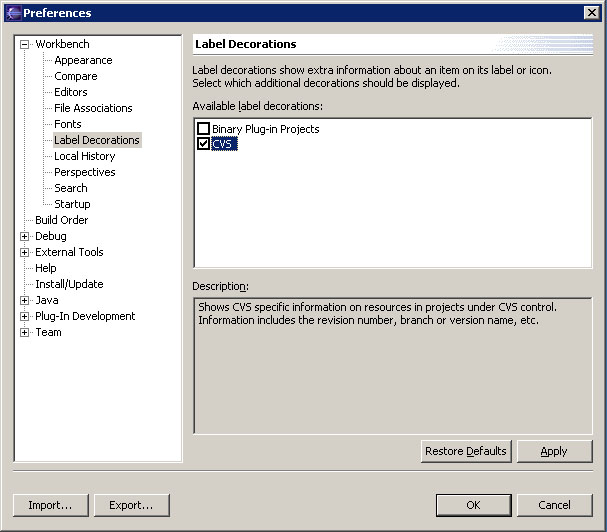
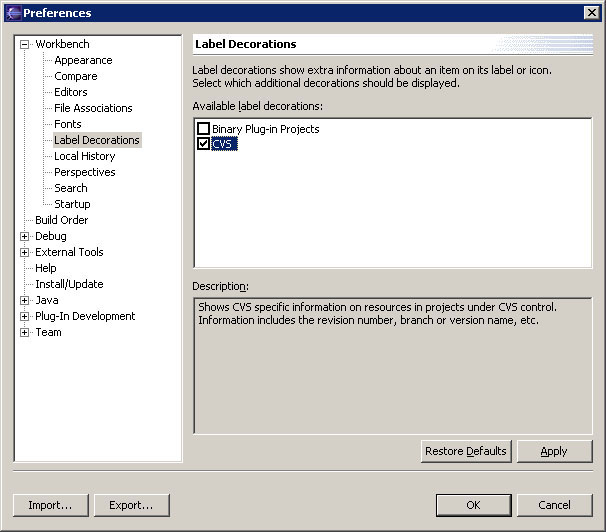
Screenshot update

diff --git a/bundles/org.eclipse.platform.doc.user/gettingStarted/qs-70_replace.htm b/bundles/org.eclipse.platform.doc.user/gettingStarted/qs-70_replace.htm
@@ -29,7 +29,7 @@ resource from the repository. To rollback to an earlier revision:</p>
   </li>
   <li>Open the preferences (Window &gt; Preferences) and turn on the CVS label 
   decorations (on page Workbench &gt; Label Decorations and ensure CVS is checked).
-<p><img align="texttop" border="0" src="../images/Image84_decorator_preference.jpg" alt="Decorator Preference" width="605" height="529"></p>
+<p><img align="texttop" border="0" src="../images/Image84_decorator_preference.jpg" alt="Decorator Preference" width="606" height="532"></p>
       <p>Observe that the Navigator updates to show the CVS state of a resource. 
         Notice that the modified file is preceded by &quot;&gt; (see #1) indicating 
         that we have changed file1.txt (by replacing it with the earlier version).&nbsp;</p>

diff --git a/bundles/org.eclipse.platform.doc.user/gettingStarted/qs-64c_catch_mod.htm b/bundles/org.eclipse.platform.doc.user/gettingStarted/qs-64c_catch_mod.htm
@@ -44,7 +44,7 @@ Making our own changes</h3>
       the CVS label decorations (on page Workbench &gt; Label Decorations and 
       ensure CVS is checked).</P>
 <blockquote>
-  <P CLASS="Para"><img align="texttop" border="0" src="../images/Image84_decorator_preference.jpg" alt="Navigator View" width="605" height="529" ></P>
+  <P CLASS="Para"><img align="texttop" border="0" src="../images/Image84_decorator_preference.jpg" alt="Navigator View" width="606" height="532" ></P>
 </blockquote>
       <P CLASS="Para">Observe that the Navigator updates to show the CVS state 
       of a resource. Notice that the two files which Fred has changed are 

diff --git a/bundles/org.eclipse.platform.doc.user/gettingStarted/qs-64b_fredmod.htm b/bundles/org.eclipse.platform.doc.user/gettingStarted/qs-64b_fredmod.htm
@@ -50,7 +50,7 @@ Another user making changes</h3>
       the CVS label decorations (on page Workbench &gt; Label Decorations check off 
       CVS).</P>
 <blockquote>
-  <P CLASS="Para"><img align="texttop" border="0" src="../images/Image84_decorator_preference.jpg" alt="Navigator View" width="605" height="529" ></P>
+  <P CLASS="Para"><img align="texttop" border="0" src="../images/Image84_decorator_preference.jpg" alt="Navigator View" width="607" height="532" ></P>
 </blockquote>
       <P CLASS="Para">Observe that the Navigator updates to show the CVS state 
       of a resource. Notice that the two files which Fred has changed are 

diff --git a/bundles/org.eclipse.platform.doc.user/concepts/accessibility/keyboardshortcuts.htm b/bundles/org.eclipse.platform.doc.user/concepts/accessibility/keyboardshortcuts.htm
@@ -1338,8 +1338,7 @@ Default Key Bindings</b></caption>
 <TD ALIGN="left">&nbsp;</TD>
 <TD ALIGN="left">Edit/Go to text start</TD>
 <TD ALIGN="left">Edit/Go to text start</TD>
-<TD ALIGN="left">
-</TD>
+<TD ALIGN="left">&nbsp;</TD>
 <TD ALIGN="left">&nbsp;</TD>
 <TD ALIGN="left">&nbsp;</TD>
 <TD ALIGN="left">&nbsp;</TD>
@@ -1352,8 +1351,7 @@ Default Key Bindings</b></caption>
 <TD ALIGN="left">&nbsp;</TD>
 <TD ALIGN="left">Edit/Go to text end</TD>
 <TD ALIGN="left">Edit/Go to text end</TD>
-<TD ALIGN="left">
-</TD>
+<TD ALIGN="left">&nbsp;</TD>
 <TD ALIGN="left">&nbsp;</TD>
 <TD ALIGN="left">&nbsp;</TD>
 <TD ALIGN="left">&nbsp;</TD>

diff --git a/bundles/org.eclipse.platform.doc.user/reference/ref-decorations.htm b/bundles/org.eclipse.platform.doc.user/reference/ref-decorations.htm
@@ -22,7 +22,7 @@ and allows the selection of which decorations are visible.&nbsp;</P>
 </P>
 
 
-<P><img border="0" src="../images/Image84_decorator_preference.jpg" width="607" height="532" alt="Decorators preference page">
+<P><img border="0" src="../images/Image84_decorator_preference.jpg" width="606" height="532" alt="Decorators preference page">
 </P>
 
 <P><img border="0" src="../images/ngrelc.gif" alt="Related concepts" width="159" height="27">
